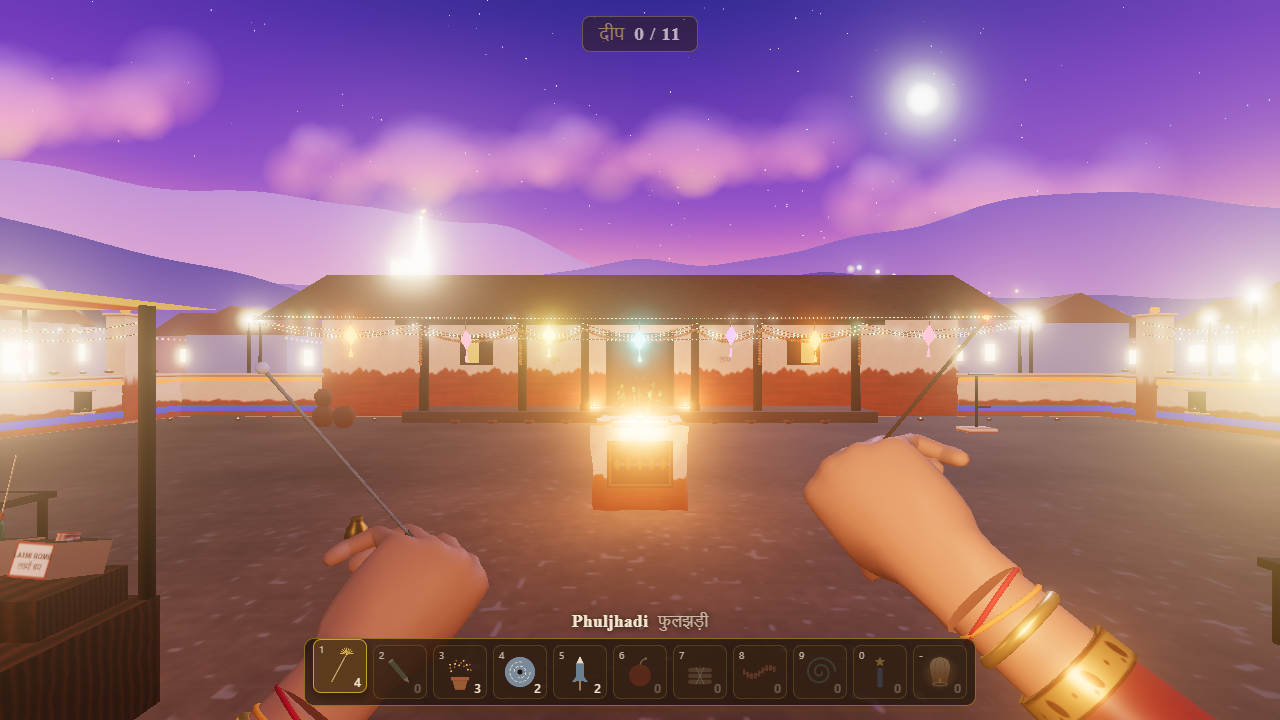
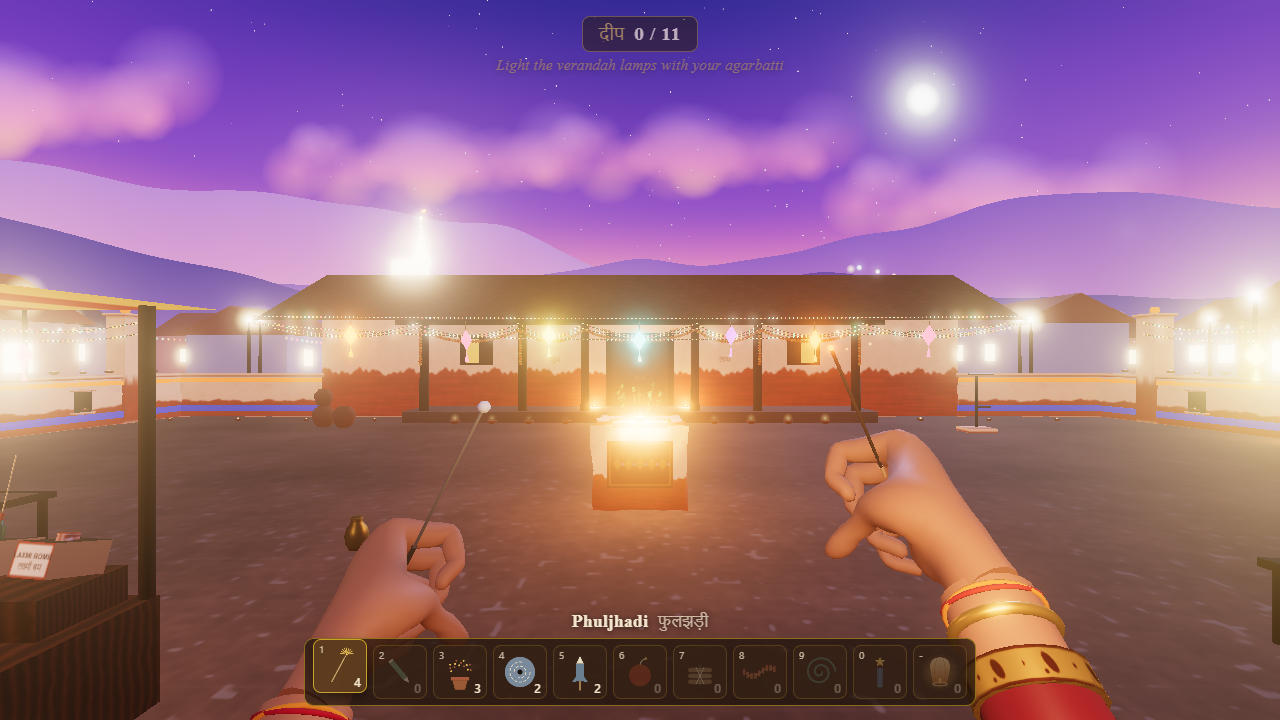
fix: close the hand around the agarbatti in a natural grip

diff --git a/src/player/Hands.ts b/src/player/Hands.ts
@@ -20,10 +20,10 @@ const MESH_WRIST = new THREE.Vector3(0.039, 0.074, 0.01);
 const MESH_SCALE = 1.75;
 /** Per-joint curl of each finger in degrees [proximal, intermediate, distal], progressive from index to pinky. */
 const CURL: ReadonlyArray<readonly [string, number, number, number]> = [
-  ['index', 62, 72, 55],
-  ['middle', 68, 76, 58],
-  ['ring', 74, 80, 60],
-  ['pinky', 80, 82, 62],
+  ['index', 70, 80, 60],
+  ['middle', 76, 84, 62],
+  ['ring', 82, 86, 64],
+  ['pinky', 88, 88, 66],
 ];
 /** Where the stick passes through the mesh-space fist, between the curled fingers and the thumb. */
 const MESH_GRIP = new THREE.Vector3(0.012, -0.03, 0.015);
@@ -353,11 +353,13 @@ function poseHandBones(root: THREE.Object3D, sx: number): void {
     bendBone(bone(`${f}-finger-phalanx-intermediate`), across, -rad(m) * sx);
     bendBone(bone(`${f}-finger-phalanx-distal`), across, -rad(d) * sx);
   }
-  // Thumb: swing it in toward the index finger (about y), then fold it over the stick.
-  bendBone(bone('thumb-metacarpal'), new THREE.Vector3(0, 1, 0), rad(25) * sx);
-  bendBone(bone('thumb-metacarpal'), across, -rad(20) * sx);
-  bendBone(bone('thumb-phalanx-proximal'), across, -rad(25) * sx);
-  bendBone(bone('thumb-phalanx-distal'), across, -rad(30) * sx);
+  // Thumb: swing it across the palm toward the curled index finger (about y), fold it along the fingers toward the
+  // little-finger side (about x, which needs no mirror sign), then bend its joints so the tip rests over the index.
+  const alongPalm = new THREE.Vector3(1, 0, 0);
+  bendBone(bone('thumb-metacarpal'), new THREE.Vector3(0, 1, 0), rad(50) * sx);
+  bendBone(bone('thumb-metacarpal'), alongPalm, -rad(45));
+  bendBone(bone('thumb-phalanx-proximal'), alongPalm, -rad(50));
+  bendBone(bone('thumb-phalanx-distal'), alongPalm, -rad(45));
 }
 
 /**
@@ -386,10 +388,10 @@ function buildMeshHand(scene: THREE.Object3D, mats: HandMaterials, grip: THREE.G
   forearm.position.y = -0.004;
   handFrame.add(forearm);
 
-  // The grip anchor: the stick runs across the palm (mesh z) and leaves past the little-finger side (+z).
+  // The grip anchor: the stick runs across the palm (mesh z) and leaves past the thumb and index side (-z).
   const anchor = new THREE.Group();
   anchor.position.set(MESH_GRIP.x * sx, MESH_GRIP.y, MESH_GRIP.z).sub(wristAt).multiplyScalar(MESH_SCALE);
-  anchor.quaternion.setFromUnitVectors(new THREE.Vector3(0, 1, 0), new THREE.Vector3(0, 0, 1));
+  anchor.quaternion.setFromUnitVectors(new THREE.Vector3(0, 1, 0), new THREE.Vector3(0, 0, -1));
   grip.position.set(0, 0, 0);
   grip.quaternion.identity();
   anchor.add(grip);
@@ -403,13 +405,15 @@ function buildMeshHand(scene: THREE.Object3D, mats: HandMaterials, grip: THREE.G
 
 /**
  * Orientation of the mesh hand in camera space: the wrist (+y) runs down and toward the viewer out of the bottom-right,
- * and the stick axis (+z, toward the little finger) points up and slightly forward. Mirrored for the left hand.
+ * and the stick axis points up and slightly inward and forward, with the thumb and index side (-z) on top so the stick
+ * leaves the fist beside the thumb and the back of the hand (+x) faces right. Mirrored for the left hand.
  */
 function meshPoseQuaternion(sx: number): THREE.Quaternion {
-  const y = new THREE.Vector3(0.55, -0.55, 0.62).normalize();
-  // z (toward the little finger) runs up the stick, so the back of the hand faces the viewer and the thumb is below; made perpendicular to the wrist.
-  const up = new THREE.Vector3(0, 1, -0.25);
-  const z = up.clone().addScaledVector(y, -up.dot(y)).normalize();
+  const y = new THREE.Vector3(-0.1, -0.55, 0.8).normalize();
+  // The thumb and index side (-z) runs up the stick, so the stick leaves the fist beside the thumb, and the back of the
+  // hand (+x) faces right. The stick leans a little toward the screen centre and away; made perpendicular to the wrist.
+  const up = new THREE.Vector3(-0.45, 1, 0.1);
+  const z = up.clone().addScaledVector(y, -up.dot(y)).normalize().negate();
   const x = new THREE.Vector3().crossVectors(y, z);
   const basis = new THREE.Matrix4().makeBasis(x, y, z);
   const mirror = new THREE.Matrix4().makeScale(sx, 1, 1);
